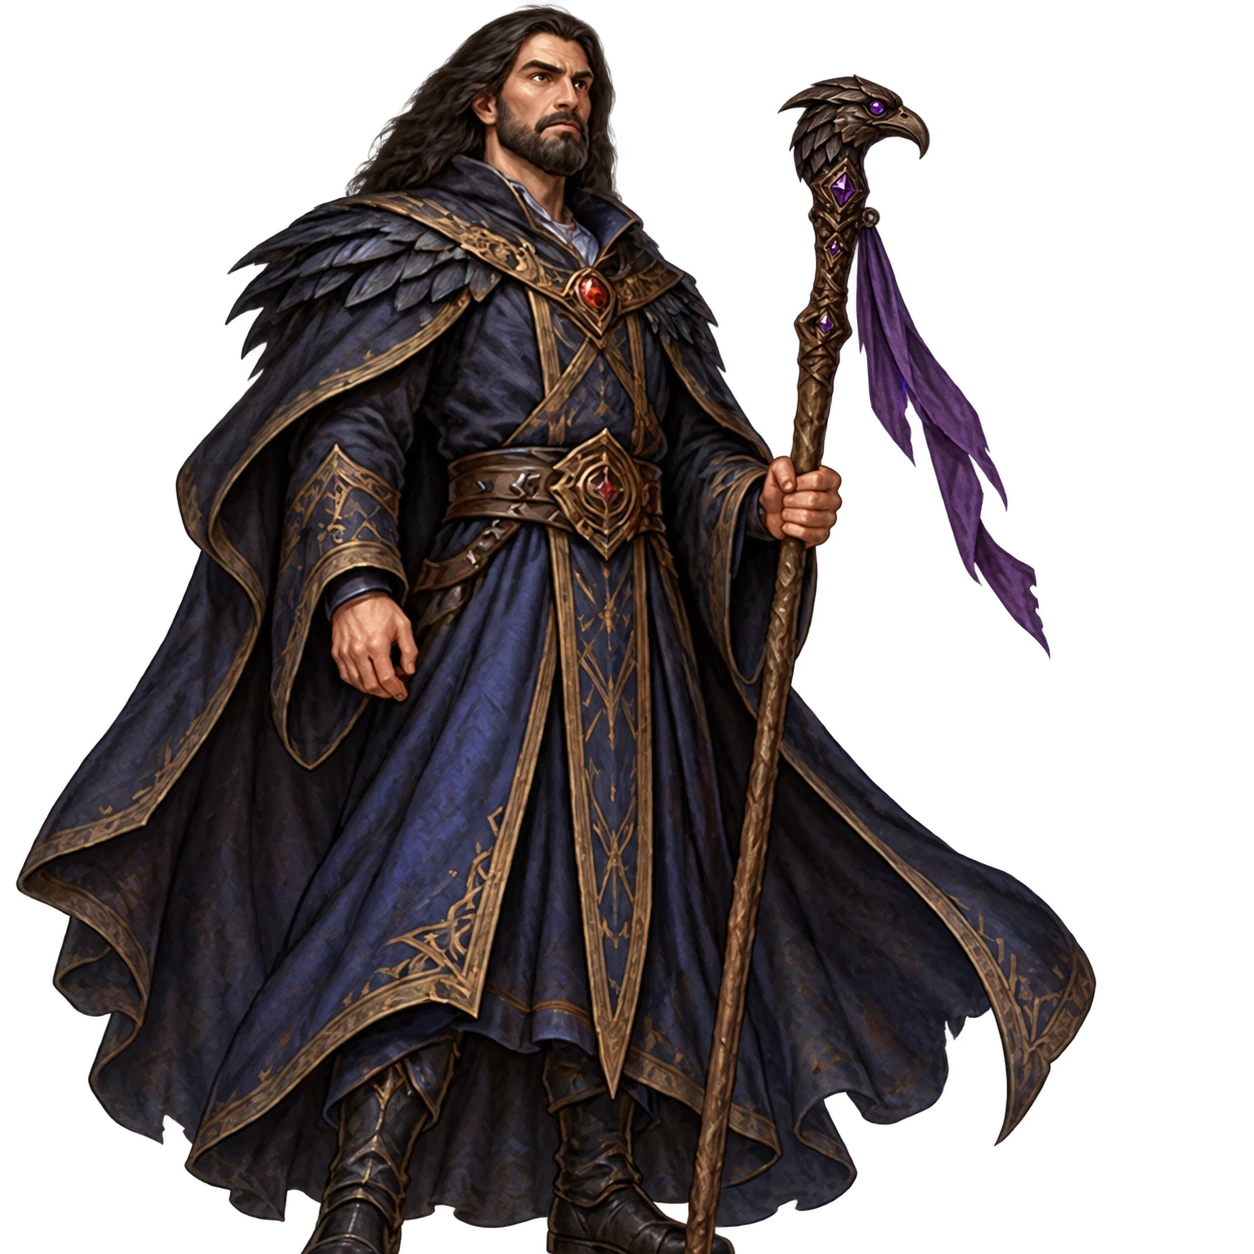
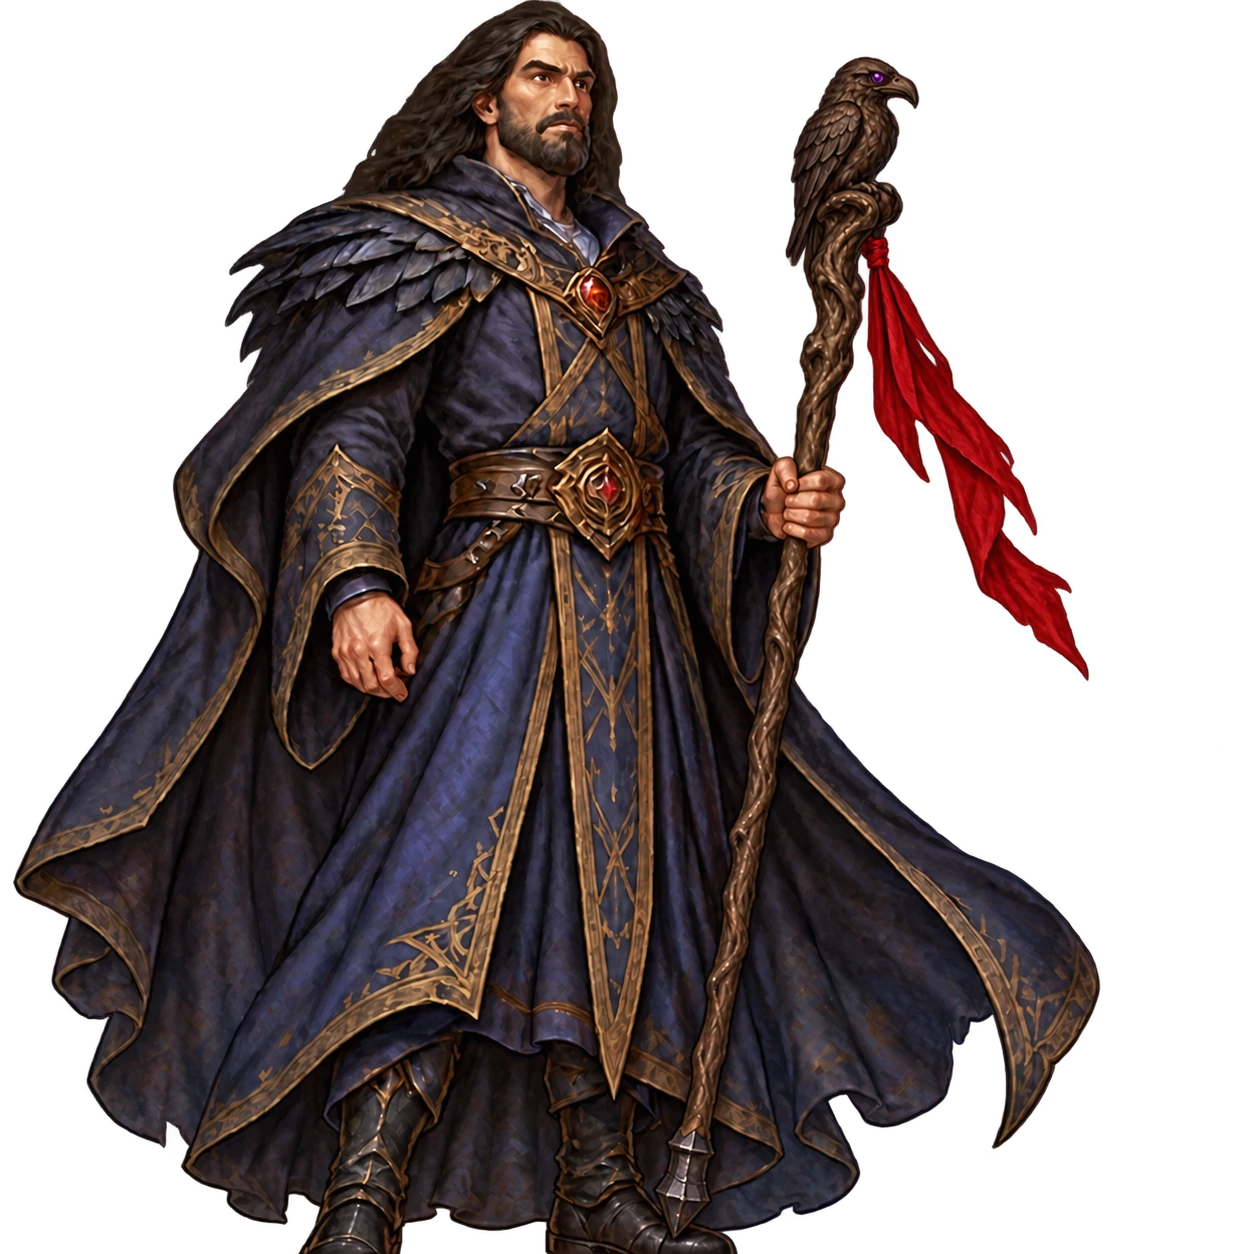
Consecrate Atiesh in Medivh's grasp

diff --git a/tests/unit/loreValidation.test.ts b/tests/unit/loreValidation.test.ts
@@ -878,9 +878,11 @@ describe('lore dataset', () => {
     expect(data.eras.find((item) => item.id === 'age-of-adventurers')?.storyGuideId)
       .not.toBe(guide.id);
     expect(medivh.mapFigure?.asset).toBe('images/storylines/karazhan/medivh.research.webp');
-    expect(medivhAsset.generationPrompt).toMatch(/Atiesh/);
-    expect(medivhAsset.visualReview).toMatch(/carved raven-head finial/);
-    expect(storyTemplate).toMatch(/Signature equipment.*Medivh should visibly wield Atiesh/);
+    expect(medivh.mapFigure?.scale).toBeGreaterThanOrEqual(1.3);
+    expect(medivh.body).toMatch(/Atiesh.*seated raven.*red streamer/);
+    expect(medivhAsset.generationPrompt).toMatch(/Atiesh.*seated raven.*red streamer/);
+    expect(medivhAsset.visualReview).toMatch(/seated raven.*hooked beak.*folded wings.*red streamer/);
+    expect(storyTemplate).toMatch(/Signature equipment.*Medivh should visibly wield Atiesh.*seated raven.*red streamer/);
   });
 
   it('keeps Quel’Delar as a complete, source-linked Classic-to-Wrath story outside EraTour', () => {

diff --git a/tests/e2e/karazhanStoryline.spec.ts b/tests/e2e/karazhanStoryline.spec.ts
@@ -52,6 +52,7 @@ test('Karazhan traverses all cited scenes, shows Atiesh with Medivh, and returns
       const medivhFigure = page.locator('.map-character-figure img[src*="/medivh.research.webp"]');
       await expect(medivhFigure).toBeVisible();
       await expect.poll(() => medivhFigure.evaluate((image: HTMLImageElement) => image.naturalWidth)).toBeGreaterThan(0);
+      await expect.poll(() => medivhFigure.evaluate((image: HTMLImageElement) => image.width)).toBeGreaterThanOrEqual(170);
     }
     if (index < story.nodes.length - 1) await page.getByRole('button', { name: 'Next', exact: true }).click();
   }

diff --git a/docs/research/storyline-build-template.md b/docs/research/storyline-build-template.md
@@ -85,7 +85,7 @@ Before building the nodes, inventory the actual image assets for every scene:
 - **Game-area resemblance:** when a place exists in World of Warcraft, identify the relevant game version and use its recognizable palette, architecture, terrain, vegetation, skyline, and landmark shapes as visual references. Preserve the traits that let a player recognize the place while keeping the composition original and interpretive. For example, Stormwind Keep should read as pale or white stone with blue and gold details; red-brown stone and red banners would misidentify it. Do not substitute generic fantasy scenery or another region's color language. Record the reference traits and review each image against the matching in-game area before completion.
 - **Characters and embodied groups:** every principal named actor and significant group needs a distinct, recognizable illustrated portrait, creature cutout, or ensemble, visible during its relevant beat. Match the era art's detail, lighting and readability. Use transparent cutouts for the existing figure renderer; preserve labels and accompanying text. A name beside a generic marker or repeated silhouette is insufficient.
 - **Artifacts and pivotal objects:** illustrate objects such as the Scepter when they drive the action. They supplement the setting and cast rather than replacing either.
-- **Signature equipment:** when a character is identified by an iconic weapon or other defining implement, show it clearly as part of the character's representation during the relevant beat. Record its recognizable shape and materials, cite a lawful item/model locator, and check that the prop is visible in playback. For example, Medivh should visibly wield Atiesh, with its carved bird-head finial, dark shaft, arcane stones and hanging ribbon; do not leave the staff as an unconnected background prop.
+- **Signature equipment:** when a character is identified by an iconic weapon or other defining implement, show it clearly as part of the character's representation during the relevant beat. Record its recognizable shape and materials, cite a lawful item/model locator, and check that the prop is visible in playback. For example, Medivh should visibly wield Atiesh: a dark gnarled shaft with an integrated carved seated raven, hooked beak and folded wings, a small violet eye detail, and the mage version's hanging red streamer; keep the complete staff in his hand rather than showing a generic bird-head prop.
 - **Asset record:** record node IDs, environment path, actor IDs and image paths, creation/reuse provenance, prompt or lawful origin, interpretive limitations, and visual review status. Wire these repository-backed assets into MapState and entity visual fields through the existing engine. An image saved on disk but absent from the rendered scene is unfinished.
 - **Scene composition:** frame environment and cast together at readable sizes. Keep faces, creature silhouettes, names and important setting details clear of the transcript and controls on desktop and phone. Do not add unsupported visual events or claim a generated costume or architectural detail as canonical evidence.
 

diff --git a/docs/research/karazhan-production.md b/docs/research/karazhan-production.md
@@ -6,7 +6,7 @@ Status: complete illustrated research story; not reviewed or published. 18 scene
 
 The Master’s Key path is supported by Blizzard’s TBC Classic chain overview and secondary reproductions of the TBC quest records. The Nightbane path is supported by secondary reproductions of the removed original TBC quests and their dialogue. These are locators and mirrors, not captures from a running original 2007 client. Every consequential narration beat has a Source, Citation and Claim record. No claim is promoted beyond research.
 
-Sources: [karazhan-official-attunement-overview](https://worldofwarcraft.blizzard.com/en-us/news/23716331/get-attuned-and-face-the-overlords-of-outland); [karazhan-key-quest-locators](https://warcraft.wiki.gg/wiki/Karazhan_attunement); [karazhan-entry-quest-text](https://warcraft.wiki.gg/wiki/Entry_Into_Karazhan); [karazhan-fragment-quest-text](https://warcraft.wiki.gg/wiki/The_Second_and_Third_Fragments); [karazhan-masters-touch-quest-text](https://warcraft.wiki.gg/wiki/The_Master%27s_Touch); [karazhan-journal-and-nightbane-quest-chain](https://warcraft.wiki.gg/wiki/Nightbane_quest_chain); [karazhan-atiesh-visual-reference](https://www.wowhead.com/classic/item=22631/atiesh-greatstaff-of-the-guardian); [karazhan-kalynnas-request-quest-text](https://warcraft.wiki.gg/wiki/Kalynna%27s_Request). The Atiesh depiction also uses [the item’s Classic visual locator](https://www.wowhead.com/classic/item=22631/atiesh-greatstaff-of-the-guardian).
+Sources: [karazhan-official-attunement-overview](https://worldofwarcraft.blizzard.com/en-us/news/23716331/get-attuned-and-face-the-overlords-of-outland); [karazhan-key-quest-locators](https://warcraft.wiki.gg/wiki/Karazhan_attunement); [karazhan-entry-quest-text](https://warcraft.wiki.gg/wiki/Entry_Into_Karazhan); [karazhan-fragment-quest-text](https://warcraft.wiki.gg/wiki/The_Second_and_Third_Fragments); [karazhan-masters-touch-quest-text](https://warcraft.wiki.gg/wiki/The_Master%27s_Touch); [karazhan-journal-and-nightbane-quest-chain](https://warcraft.wiki.gg/wiki/Nightbane_quest_chain); [karazhan-atiesh-visual-reference](https://www.wowhead.com/classic/item=22589/atiesh-greatstaff-of-the-guardian); [karazhan-kalynnas-request-quest-text](https://warcraft.wiki.gg/wiki/Kalynna%27s_Request). The Atiesh depiction also uses [the item’s Classic visual locator](https://www.wowhead.com/classic/item=22589/atiesh-greatstaff-of-the-guardian).
 
 ## Distinct quest chains and editorial join
 

diff --git a/docs/research/questline-story-candidates.md b/docs/research/questline-story-candidates.md
@@ -141,7 +141,6 @@ This is the focused questline selection within the broader [master lore backlog]
 
 **Sources:** Blizzard's [Outland attunement overview](https://worldofwarcraft.blizzard.com/en-us/news/23716331/get-attuned-and-face-the-overlords-of-outland); [key locator](https://warcraft.wiki.gg/wiki/Karazhan_attunement). **Gate:** historical time-travel scenes are not contemporary travel routes. Capture released journal dialogue and Nightbane's history.
 
-
 **Implementation:** Complete 18-scene illustrated research story with transcript-matched AI narration, claim/source ledger, named cast and object art (including Medivh with Atiesh), and the Karazhan marker in the Classic-to-Wrath StoryTour. The Master’s Key and Nightbane quest chains remain distinct with an explicit editorial join. Original-client evidence, human lore review, TBC area/model resemblance review and audio audition remain open. See the [production ledger](karazhan-production.md), [research packet](karazhan-masters-key-and-nightbane-research.md), and [visual asset ledger](karazhan-visual-assets.json).
 ### 13. Akama and the Black Temple
 
